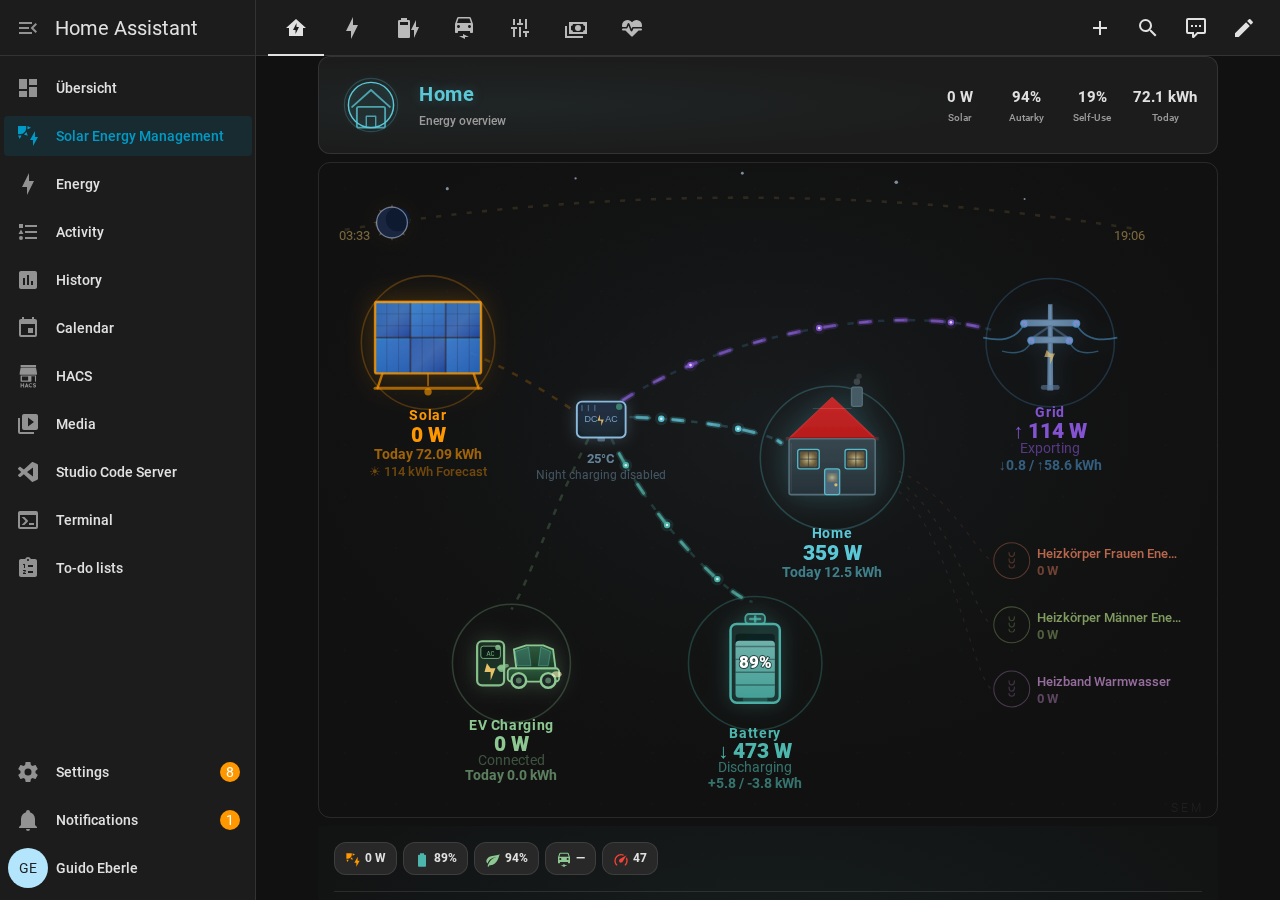
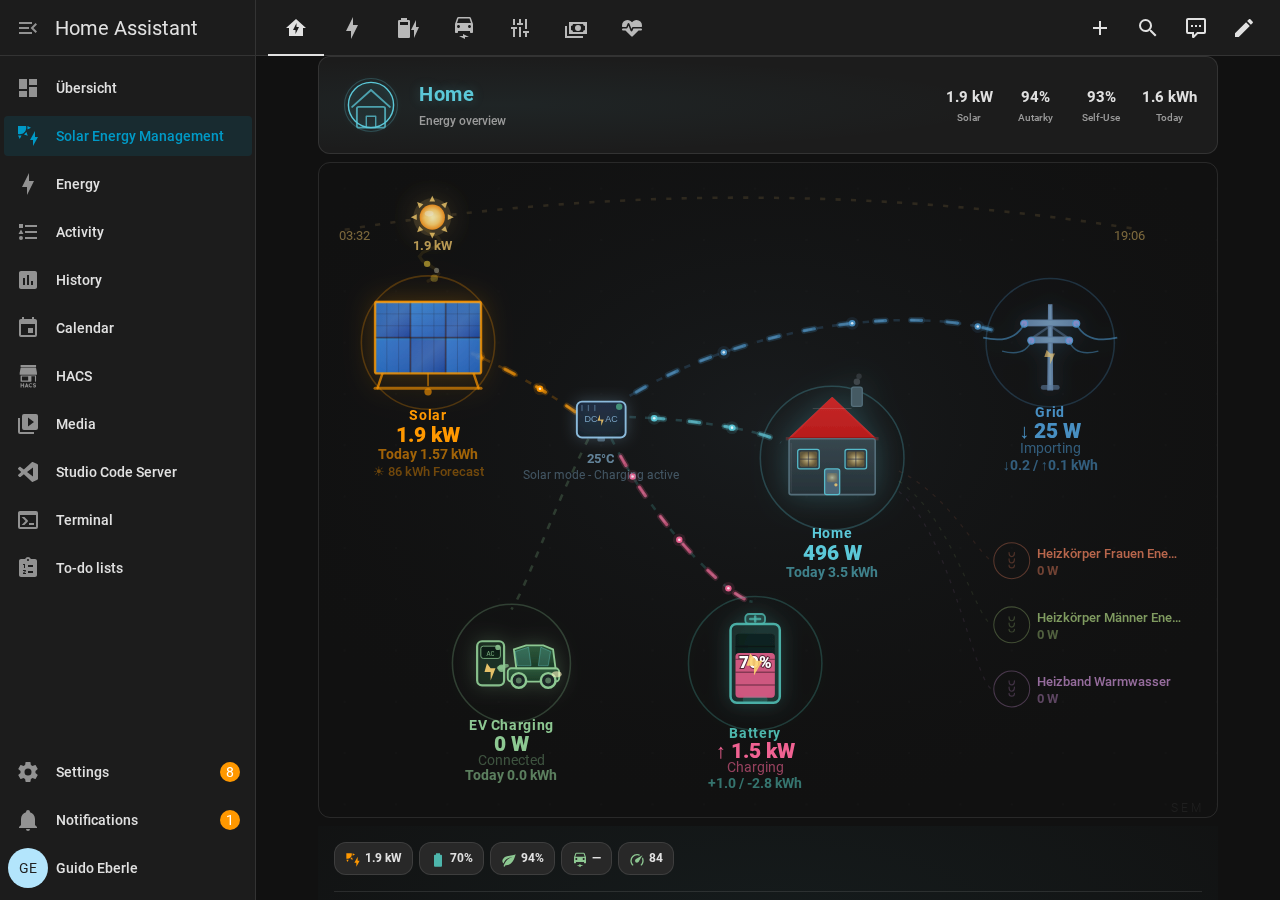
Add daytime dashboard screenshots with solar production active

diff --git a/docs/SETUP_GUIDE.md b/docs/SETUP_GUIDE.md
@@ -146,7 +146,6 @@ The config flow has three steps. You can change any setting later via the
 
 ### Step 1: Energy Dashboard Detection
 
-<!-- TODO: screenshot images/sem_config_step1.png -->
 
 SEM scans your Energy Dashboard and auto-detects all configured sensors:
 solar production, grid import/export, battery charge/discharge, and EV charger.
@@ -161,7 +160,6 @@ solar production, grid import/export, battery charge/discharge, and EV charger.
 
 ### Step 2: EV Charger (optional)
 
-<!-- TODO: screenshot images/sem_config_step2.png -->
 
 If you have an EV charger, this step configures how SEM controls it. SEM
 auto-detects your charger from the HA entity registry — review the pre-filled
@@ -190,7 +188,6 @@ chargers, see [MULTI_DEVICE_GUIDE.md](MULTI_DEVICE_GUIDE.md).
 
 ### Step 3: Hardware and Dashboard Settings
 
-<!-- TODO: screenshot images/sem_config_step3.png -->
 
 | Field | Default | Description |
 |-------|---------|-------------|
@@ -259,7 +256,6 @@ Once SEM is running, open **Settings > Devices & Services**, find the SEM
 card, and click **Configure** to adjust any setting without reinstalling.
 Changes take effect within one coordinator cycle (default 10 seconds).
 
-<!-- TODO: screenshots for each options flow page -->
 
 The options flow is organized into these pages:
 1. **EV Charger** — charger sensors and control method
